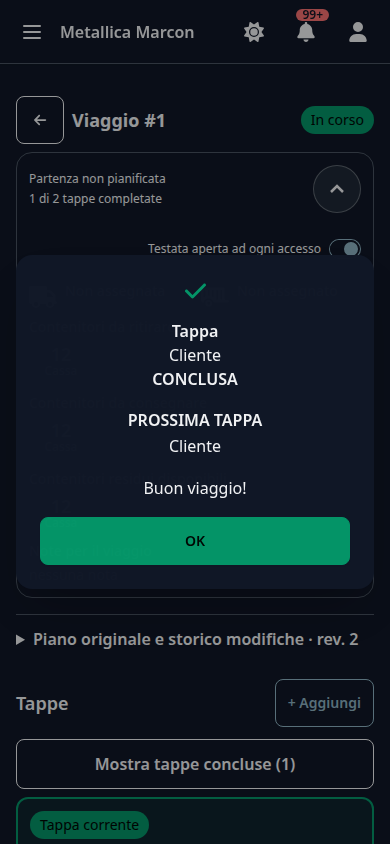
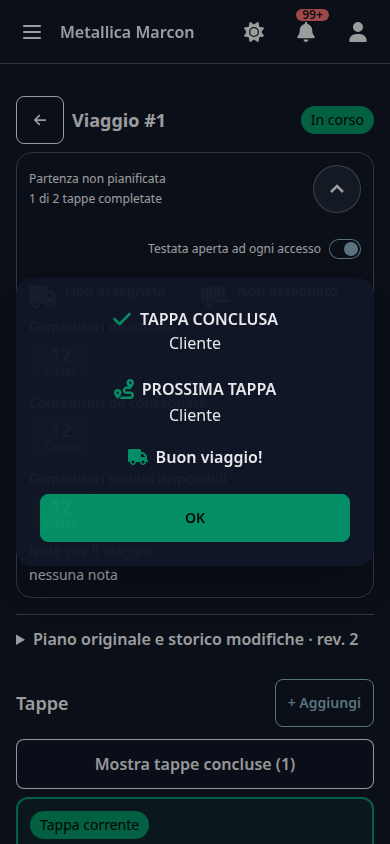
release: consolidate approved DEV for QA and Jarvis handoff

Changed region(s): [[0.0923, 0.3389, 0.9231, 0.7085], [0.3077, 0.3697, 0.3385, 0.4005]]

diff --git a/scripts/prepare-jarvis-release.py b/scripts/prepare-jarvis-release.py
@@ -1,0 +1,52 @@
+#!/usr/bin/env python3
+"""Build a reviewable Jarvis image without switching any running service."""
+import argparse
+import hashlib
+import json
+import os
+from pathlib import Path
+import re
+import subprocess
+import tarfile
+
+parser = argparse.ArgumentParser(description=__doc__)
+parser.add_argument('archive', type=Path)
+parser.add_argument('--commit', required=True)
+parser.add_argument('--sha256', required=True)
+parser.add_argument('--root', type=Path, default=Path('/home/hatsusakura/apps/metallica-marcon'))
+args = parser.parse_args()
+if not re.fullmatch(r'[a-f0-9]{40}', args.commit):
+    parser.error('Expected full source commit')
+if hashlib.sha256(args.archive.read_bytes()).hexdigest() != args.sha256:
+    raise SystemExit('Archive checksum mismatch')
+os.umask(0o077)
+release = args.root.parent / 'metallica-marcon-releases' / args.commit
+source = release / 'source'
+release.mkdir(parents=True, exist_ok=True)
+# Do not overwrite an existing prepared/deployed source context.
+source.mkdir()
+with tarfile.open(args.archive) as archive:
+    archive.extractall(source, filter='data')
+services = ['metallicamarcon', 'metallicamarcon-worker', 'metallicamarcon-scheduler']
+# Captured privately, never print a complete inspect/config/env result.
+containers = json.loads(subprocess.check_output(['docker', 'inspect', *services]))
+previous = {item['Name'].lstrip('/'): item['Image'] for item in containers}
+vite = [value for value in containers[0]['Config']['Env'] if value.startswith('VITE_')]
+(source / '.env.production').write_text('\n'.join(key + '=' + json.dumps(value) for key, value in (entry.split('=', 1) for entry in vite)) + '\n')
+image = 'metallica-marcon-jarvis:' + args.commit[:12]
+# Preserve original Compose, infrastructure and private runtime configuration.
+# Override only application image/build and the explicitly approved session lifetime.
+override = {'services': {service: {'image': image, 'build': {'context': str(source)}, 'environment': {'SESSION_LIFETIME': '720'}} for service in services}}
+(release / 'override.yml').write_text(json.dumps(override, indent=2) + '\n')
+with (release / 'build.log').open('wb') as log:
+    result = subprocess.run(['docker', 'build', '-t', image, str(source)], stdout=log, stderr=subprocess.STDOUT)
+if result.returncode:
+    raise SystemExit('Build failed; see private release build.log. Active services unchanged.')
+after = json.loads(subprocess.check_output(['docker', 'inspect', *services]))
+if previous != {item['Name'].lstrip('/'): item['Image'] for item in after}:
+    raise SystemExit('Active image changed concurrently; preparation requires review')
+manifest = {'source_commit': args.commit, 'source_sha256': args.sha256, 'image': image,
+            'environment': 'jarvis', 'status': 'prepared-not-deployed', 'previous_images': previous,
+            'session_lifetime_minutes': 720, 'public_vite_keys_count': len(vite)}
+(release / 'prepared.json').write_text(json.dumps(manifest, indent=2) + '\n')
+print(json.dumps({'source_commit': args.commit, 'image': image, 'status': 'prepared-not-deployed', 'release': str(release)}))

diff --git a/scripts/package-release.py b/scripts/package-release.py
@@ -1,0 +1,38 @@
+#!/usr/bin/env python3
+"""Export pushed, clean application source and a handoff for QA/Jarvis."""
+import argparse
+import hashlib
+import json
+from pathlib import Path
+import subprocess
+import tarfile
+
+root = Path(__file__).resolve().parents[1]
+parser = argparse.ArgumentParser(description=__doc__)
+parser.add_argument('--output', type=Path, default=root / '!RELEASE')
+args = parser.parse_args()
+def git(*arguments):
+    return subprocess.check_output(['git', *arguments], cwd=root, text=True).strip()
+if git('status', '--porcelain'):
+    raise SystemExit('Commit all source changes before packaging')
+commit = git('rev-parse', 'HEAD')
+if not any(line.strip().startswith('origin/') for line in git('branch', '-r', '--contains', commit).splitlines()):
+    raise SystemExit('Push the commit before packaging')
+output = args.output.resolve() / commit
+output.mkdir(parents=True, exist_ok=False)
+archive = output / ('metallica-marcon-source-' + commit[:12] + '.tar.gz')
+subprocess.run(['git', 'archive', '--format=tar.gz', '--output', str(archive), commit], cwd=root, check=True)
+with tarfile.open(archive) as source:
+    names = source.getnames()
+    forbidden = [name for name in names if name == '.env' or name.startswith(('.git/', '.ai/', '.claude/', '.codex/', '.agents/', 'vendor/', 'node_modules/', 'storage/app/private/')) or name.endswith(('.sqlite', '.sqlite3', '.pem', '.key'))]
+    if forbidden:
+        raise SystemExit('Unexpected private/runtime files in archive: ' + ', '.join(forbidden))
+checksum = hashlib.sha256(archive.read_bytes()).hexdigest()
+manifest = {'source_commit': commit, 'source_branch': git('branch', '--show-current'),
+            'source_archive': archive.name, 'source_sha256': checksum,
+            'targets': {'qa': 'prepared-source-not-deployed', 'jarvis': 'prepared-source-not-deployed'},
+            'session_lifetime_minutes': 720, 'runtime_data_included': False}
+(output / 'release.json').write_text(json.dumps(manifest, indent=2) + '\n')
+(output / 'HANDOFF.md').write_text((root / 'docs/qa/2026-11-20-dev-release.md').read_text())
+(output / 'SHA256SUMS').write_text(''.join(hashlib.sha256(path.read_bytes()).hexdigest() + '  ' + path.name + '\n' for path in [archive, output / 'release.json', output / 'HANDOFF.md']))
+print(json.dumps({'source_commit': commit, 'package': str(output), 'source_archive': str(archive), 'source_sha256': checksum}, indent=2))

diff --git a/app/Support/AgentApi/OpenApi.php b/app/Support/AgentApi/OpenApi.php
@@ -151,15 +151,15 @@ class OpenApi
     private function cerOperation(string $name): array
     {
         $list = $name === 'cer-codes.index';
-        $record = ['type' => 'object', 'required' => ['id', 'code', 'description', 'is_dangerous'], 'properties' => [
-            'id' => ['type' => 'integer'], 'code' => ['type' => 'string'], 'description' => ['type' => 'string'], 'is_dangerous' => ['type' => 'boolean'],
+        $record = ['type' => 'object', 'required' => ['id', 'code', 'description', 'is_dangerous', 'is_active'], 'properties' => [
+            'id' => ['type' => 'integer'], 'code' => ['type' => 'string'], 'description' => ['type' => 'string'], 'is_dangerous' => ['type' => 'boolean'], 'is_active' => ['type' => 'boolean'],
         ]];
         $body = ['type' => 'object', 'properties' => ['data' => $list ? self::arrayOf($record) : $record]];
         if ($list) $body['properties'] += ['current_page' => ['type' => 'integer'], 'last_page' => ['type' => 'integer'], 'per_page' => ['type' => 'integer'], 'total' => ['type' => 'integer'], 'next_page_url' => ['type' => ['string', 'null']]];
         $op = [
             'tags' => ['API agenti: Codici CER'], 'summary' => $list ? 'Cerca ed elenca codici CER' : 'Leggi codice CER',
             'operationId' => $list ? 'agentCerCodesIndex' : 'agentCerCodesShow',
-            'description' => 'Sola lettura. Richiede Bearer token valido e permesso cer-codes:read sia sull’agente sia sul token. Non permette inserimento, modifica o eliminazione dei CER. Gli ID sono gli stessi utilizzati nei materiali degli ordini.',
+            'description' => 'Sola lettura. Richiede Bearer token valido e permesso cer-codes:read sia sull’agente sia sul token. Non permette inserimento, modifica o eliminazione dei CER. Gli ID sono gli stessi utilizzati nei materiali degli ordini. is_active distingue i codici utilizzabili in nuove righe da quelli disattivati e conservati per lo storico. Una riga esistente può mantenere il proprio CER disattivato; nuovi abbinamenti sono rifiutati.',
             'security' => [['agentBearer' => []]], 'x-required-ability' => 'cer-codes:read', 'parameters' => [],
             'responses' => ['200' => ['description' => 'Codici CER', 'content' => ['application/json' => ['schema' => $body]]]],
         ];

diff --git a/tests/Feature/AgentApiTest.php b/tests/Feature/AgentApiTest.php
@@ -224,4 +224,17 @@ class AgentApiTest extends JourneyExecutionTestCase
         $this->api('GET', 'cer-codes/1')->assertNotFound();
     }
 
+    public function test_disabled_cer_is_readable_but_only_retained_on_its_existing_order_row(): void
+    {
+        $created=$this->api('POST','orders',$this->payload(),['Idempotency-Key'=>'cer-retain-create'])->assertCreated()->json('data');
+        DB::table('cer_codes')->where('id',1)->update(['is_active'=>false]);
+        $this->api('GET','cer-codes/1')->assertOk()->assertJsonPath('data.is_active',false);
+        $this->api('GET','references/cer-codes')->assertOk()->assertJsonPath('data.0.is_active',0);
+        $this->api('POST','orders',$this->payload(),['Idempotency-Key'=>'cer-disabled-create'])->assertUnprocessable();
+        $current=$this->api('GET','orders/'.$created['id'])->assertOk()->json('data');
+        $updated=$this->api('PATCH','orders/'.$created['id'],['notes'=>'Mantiene CER storico'],['Idempotency-Key'=>'cer-retain-update','If-Match'=>$current['version']])->assertOk()->json('data');
+        $this->assertSame(1,$updated['items'][0]['cer_code_id']);
+        $this->api('POST','orders/'.$created['id'].'/items',$this->payload()['items'][0],['Idempotency-Key'=>'cer-disabled-item','If-Match'=>$updated['version']])->assertUnprocessable();
+    }
+
 }

diff --git a/app/Http/Controllers/Api/V1/ReferenceController.php b/app/Http/Controllers/Api/V1/ReferenceController.php
@@ -11,7 +11,7 @@ class ReferenceController extends Controller
     public const SOURCES = [
         'customers' => ['customers', ['id', 'company_name']],
         'sites' => ['sites', ['id', 'customer_id', 'name', 'address']],
-        'cer-codes' => ['cer_codes', ['id', 'code', 'description', 'is_dangerous']],
+        'cer-codes' => ['cer_codes', ['id', 'code', 'description', 'is_dangerous', 'is_active']],
         'holders' => ['holders', ['id', 'name', 'is_custom']],
         'vehicles' => ['vehicles', ['id', 'name', 'type', 'has_trailer', 'load_capacity']],
         'trailers' => ['trailers', ['id', 'name', 'load_capacity']],

diff --git a/app/Support/OpenApiDocument.php b/app/Support/OpenApiDocument.php
@@ -36,7 +36,7 @@ class OpenApiDocument
             'openapi' => '3.1.0',
             'info' => [
                 'title' => 'Metallica Marcon API',
-                'version' => '1.2.0',
+                'version' => '1.3.0',
                 'description' => 'Catalogo DEV: /api/v1 usa Bearer token agente e permessi granulari. Gli endpoint precedenti usano sessione Laravel, verifica email e CSRF per le mutazioni. La pagina di documentazione resta riservata agli utenti abilitati.',
             ],
             'servers' => [

diff --git a/app/Http/Controllers/Api/V1/CerCodeController.php b/app/Http/Controllers/Api/V1/CerCodeController.php
@@ -33,6 +33,6 @@ class CerCodeController extends Controller
 
     private function query(): Builder
     {
-        return CerCode::query()->whereNull('deleted_at')->select('id', 'code', 'description', 'is_dangerous');
+        return CerCode::query()->whereNull('deleted_at')->select('id', 'code', 'description', 'is_dangerous', 'is_active');
     }
 }

diff --git a/tests/Feature/HomepageTest.php b/tests/Feature/HomepageTest.php
@@ -12,7 +12,6 @@ class HomepageTest extends JourneyExecutionTestCase
     protected function setUp(): void
     {
         parent::setUp();
-        (require database_path('migrations/2024_10_09_115339_create_notifications_table.php'))->up();
         Schema::table('users', fn ($t) => $t->string('password')->nullable());
     }
 

diff --git a/tests/Feature/SessionRecoveryTest.php b/tests/Feature/SessionRecoveryTest.php
@@ -12,6 +12,7 @@ class SessionRecoveryTest extends JourneyExecutionTestCase
     protected function setUp(): void
     {
         parent::setUp();
+        config(['session.lifetime'=>720]);
         $this->withoutMiddleware([HandleInertiaRequests::class, \Inertia\Middleware::class]);
     }
 

diff --git a/docs/qa/2026-11-20-dev-release.md b/docs/qa/2026-11-20-dev-release.md
@@ -1,0 +1,118 @@
+# Release unificata DEV — QA e Jarvis
+
+## Perimetro approvato
+
+Un solo commit sorgente integra i tre filoni:
+
+- Notifiche operative `journey-execution-update`: esiti tappe cliente/tecniche,
+  riaperture, fine viaggio, modifiche Logistica raggruppate e destinatari backend.
+  Modifiche intermedie dell'autista silenziose. Confronti deduplicati, paging,
+  filtri, stato letto, toolbar e card compatte approvati nel collaudo locale.
+- Overlay autista: TAPPA CONCLUSA/SALTATA e PROSSIMA TAPPA con icone inline,
+  ragioni sociali normali, truck/Buon viaggio, OK esplicito; sfondo sfocato,
+  blocco doppi comandi, reduced motion. Nessuna chiusura automatica.
+- Anagrafica CER riservata ai ruoli backoffice autorizzati: creazione/modifica,
+  ricerca, disattivazione e conservazione dei riferimenti storici.
+- API v1 Bearer per ordini/materiali/viaggi e riferimenti, CER sola lettura;
+  identità agenti e token gestibili solo dal ruolo developer, idempotenza,
+  versioni concorrenti e Swagger aggiornato a 1.3.0. `is_active` dei CER esposto
+  in lettura; nuove righe con CER disattivato rifiutate anche da API.
+- Sessioni 720 minuti di inattività, verifica al rientro, login guidato dopo
+  401/419 e bozze IndexedDB esplicite con conflitti, isolamento e TTL 24h.
+
+I commit di lavoro restano nella storia dei branch; il commit definitivo è
+nel manifest `release.json` del pacchetto e nella history Git, non un SHA
+inventato prima del commit. Configurazioni private e dati non sono inclusi.
+Le bonifiche di viaggi/notifiche erano esclusivamente locali e non vengono
+riprodotte nei due ambienti.
+
+## Verifiche
+
+Verifiche integrate: **154 test backend / 1.104 assertion** su SQLite in memoria,
+**22 file di test frontend**, build Vite, lint di **71 file PHP** e cache rotte.
+Chrome: 20 combinazioni viewport/tema, recupero sessione/IndexedDB, editor
+materiale reale e overlay, con API simulate e storage browser reale.
+I risultati sono in [release-checks.json](../evidence/session-recovery-2026-11-20/release-checks.json);
+gli hash degli artefatti saranno nei manifest generati dal commit pubblicato. Nessun rilascio runtime è implicito nel pacchetto.
+Le evidenze precedenti restano fotografie della versione specificata, non
+prove di attivazione del commit finale in QA/Jarvis.
+
+## Migrazioni rispetto alla precedente QA a408e0e
+
+1. `2026_11_17_120000_create_journey_execution_updates`
+2. `2026_11_20_160000_add_active_to_cer_codes`
+3. `2026_11_20_180000_create_agent_api_tables`
+
+Jarvis aveva già la terza migrazione per le API: eseguire le sole pendenti,
+senza ricreare identità/token né importare database da DEV o QA.
+Le notifiche sono salvate nella transazione DB, senza dipendenza da Redis o
+queue worker; i documenti continuano a richiedere la coda del proprio ambiente.
+
+## QA SiteGround
+
+Dal checkout pulito del commit pubblicato indicato nel manifest:
+
+```sh
+./deploy-qa.sh --prepare-only /percorso/pacchetto/qa
+./deploy-qa.sh --dry-run
+./deploy-qa.sh
+```
+
+`--prepare-only` produce archivio applicativo/asset con valori pubblici Vite
+letti dall'ambiente QA, manifest e checksum, senza modificare QA. Il deploy
+standard ricostruisce lo stesso commit, effettua backup e manutenzione,
+trasferimento allowlist, Composer, migrazioni e cache, applica SESSION_LIFETIME
+720 e ne verifica il valore effettivo, riavvia la coda e scrive il marker.
+Nessun `.env` locale o database viene trasferito. Se il commit cambia, rigenerare
+il pacchetto. Non usare `deploy.sh` Docker per SiteGround.
+
+## Jarvis Docker
+
+Installazione: `/home/hatsusakura/apps/metallica-marcon`;
+releases: `/home/hatsusakura/apps/metallica-marcon-releases/<commit>`.
+URL: <https://mm.argentonmatteo.com>, con Cloudflare Access conservato.
+
+Trasferire l'archivio sorgente e `scripts/prepare-jarvis-release.py` nella
+release remota e avviare la preparazione:
+
+```sh
+python3 prepare-jarvis-release.py source.tar.gz --commit <SHA_COMPLETO> --sha256 <HASH_ARCHIVIO>
+```
+
+La preparazione verifica checksum, estrae sorgenti puliti, recupera solo le
+variabili pubbliche VITE dal container attivo, costruisce l'immagine e salva
+`prepared.json` e `override.yml`. Non cambia immagini/container attivi né
+`.jarvis-active-release.yml`. Il nuovo override imposta anche SESSION_LIFETIME
+720 sui tre servizi applicativi: la configurazione `.env` e l'infrastruttura
+esistenti restano conservate. Il file JSON è YAML valido per Compose.
+
+Attivazione successiva, separata dalla preparazione:
+
+1. Verificare `migrate:status` e `migrate --pretend --force` usando la nuova
+   immagine e la connessione esistente. Verificare le migrazioni attese sopra.
+2. Salvare backup privato di database, storage, `.env`, Compose/override e tag
+   delle immagini precedenti; verificare checksum e leggibilità degli archivi.
+3. Fermare worker/scheduler, attivare manutenzione sull'app corrente.
+4. Copiare `override.yml` della release in `.jarvis-active-release.yml`,
+   conservando il Compose originale e il relativo symlink automatico.
+5. Ricreare solo app, worker e scheduler, senza ricreare DB/Valkey, reti o volumi.
+   Eseguire migrate/cache e `session:lifetime 720 --check`, poi riaprire l'app.
+6. Verificare HTTP login, API anonime 401, asset, Swagger, storage, DB/coda e
+   scrivere `storage/app/deployments/jarvis-release.json` con SHA e prove reali.
+
+Mai `docker compose down -v`. Non stampare `.env`, `docker inspect` completo o
+configurazioni risolte: possono contenere credenziali. Il rollback richiede
+coerenza di codice/schema/storage/config; non basta cambiare tag immagine.
+
+## Collaudo dopo l'attivazione di ciascun ambiente
+
+- Logistica riceve una sola notifica per conclusione/salto/riapertura e fine
+  viaggio; quantità/caricato intermedi non producono allarmi ripetitivi.
+- Fine viaggio con tappe aperte resta rifiutata; retry non duplica le notifiche.
+- Driver riceve solo modifiche Logistica al proprio viaggio attivo.
+- Lettura notifiche, filtri, paging, link, disclosure e overlay mobile/desktop.
+- Nuovo ordine con CER pericoloso/HP; CER disattivato non usabile su nuove righe.
+- API non anonime, privilegi token limitati, gestione token solo developer;
+  Swagger mostra ordini/materiali/viaggi/CER e `is_active`.
+- Sessione effettiva 720, login/ritorno, assenza rete e recupero bozze senza replay.
+- Documenti generati con worker attivo. Nessun reset dati QA/Jarvis richiesto.

diff --git a/docs/context.md b/docs/context.md
@@ -440,3 +440,27 @@ Verifica visibilità per ruolo: 55 test PHP/369 asserzioni passati, 8 file
 frontend passati, build Vite e controllo diff riusciti. La matrice verifica
 il permesso di storico e la capability UI per driver, magazzino, Logistica,
 manager, developer e admin. I flussi operativi del driver continuano a passare.
+
+## Checkpoint release unificata — 2026-11-20
+
+Richiesta PO: salvare/committare/pushare tutta la versione DEV approvata e
+preparare pacchetti QA e Jarvis. Preparazione autorizzata, attivazione runtime
+non ancora eseguita. Branch di integrazione release/2026-11-20-dev unisce
+notifiche/CER (10e0d22), API agenti (33895e7) e recupero sessioni (d67f908),
+con conflitti risolti conservando contratti UI/API e overlay finale approvato.
+
+Aggiunta esplicitamente anche notifica finish dell’autista alla Logistica,
+con delta dell’intero viaggio e link ordini; nessun duplicato su retry.
+CER disattivati leggibili con is_active, mantenibili sulle righe esistenti,
+non utilizzabili su nuove righe UI/API. Swagger 1.3.0.
+
+Verifiche finali: 154 test backend/1104 assertion su SQLite isolato, 22 file
+frontend, build Vite, 71 PHP lint, cache rotte, 20 viewport/temi in Chrome e
+recupero sessioni/bozze reali IndexedDB con API simulate. DEV ha anche
+applicato la migrazione API mancante e SESSION_LIFETIME effettivo 720.
+
+Runbook [release](qa/2026-11-20-dev-release.md), evidenze locali versionate.
+SHA finale e checksum stanno nei manifest del pacchetto; non confondere
+push/preparazione con deploy o accettazione QA. .env, storage, database e
+backup non sono nei pacchetti; gli archivi storici .ai/.claude sono esclusi
+da git archive e dal contesto Docker senza cancellarli dal repository.

diff --git a/docs/development-status.md b/docs/development-status.md
@@ -1,5 +1,7 @@
 # Stato sviluppi — Metallica Marcon / GLE
 
+**Release unificata 2026-11-20:** [pacchetto DEV per QA e Jarvis](qa/2026-11-20-dev-release.md). Notifiche/fine viaggio, CER, API agenti e recupero sessioni integrati; 154 test backend, 22 file frontend e build passati. Preparazione artefatti separata dal deploy. Le fotografie sottostanti mantengono la propria data.
+
 **Aggiornamento locale 2026-11-17:** [notifiche di esecuzione viaggio](design/2026-11-17-operational-notifications.md), branch `feature/journey-stop-notifications`. Migrazione locale applicata, verifiche automatiche e browser eseguite; nessun commit/push/deploy della funzionalità. GLE-139–144 In corso, collaudo QA pendente. [Evidenze e limiti](qa/2026-11-17-operational-notifications.md).
 - [Sessioni e recupero bozze — GLE-145](qa/2026-11-20-session-recovery.md): implementazione e verifiche locali; applicazione runtime al rilascio.
 
